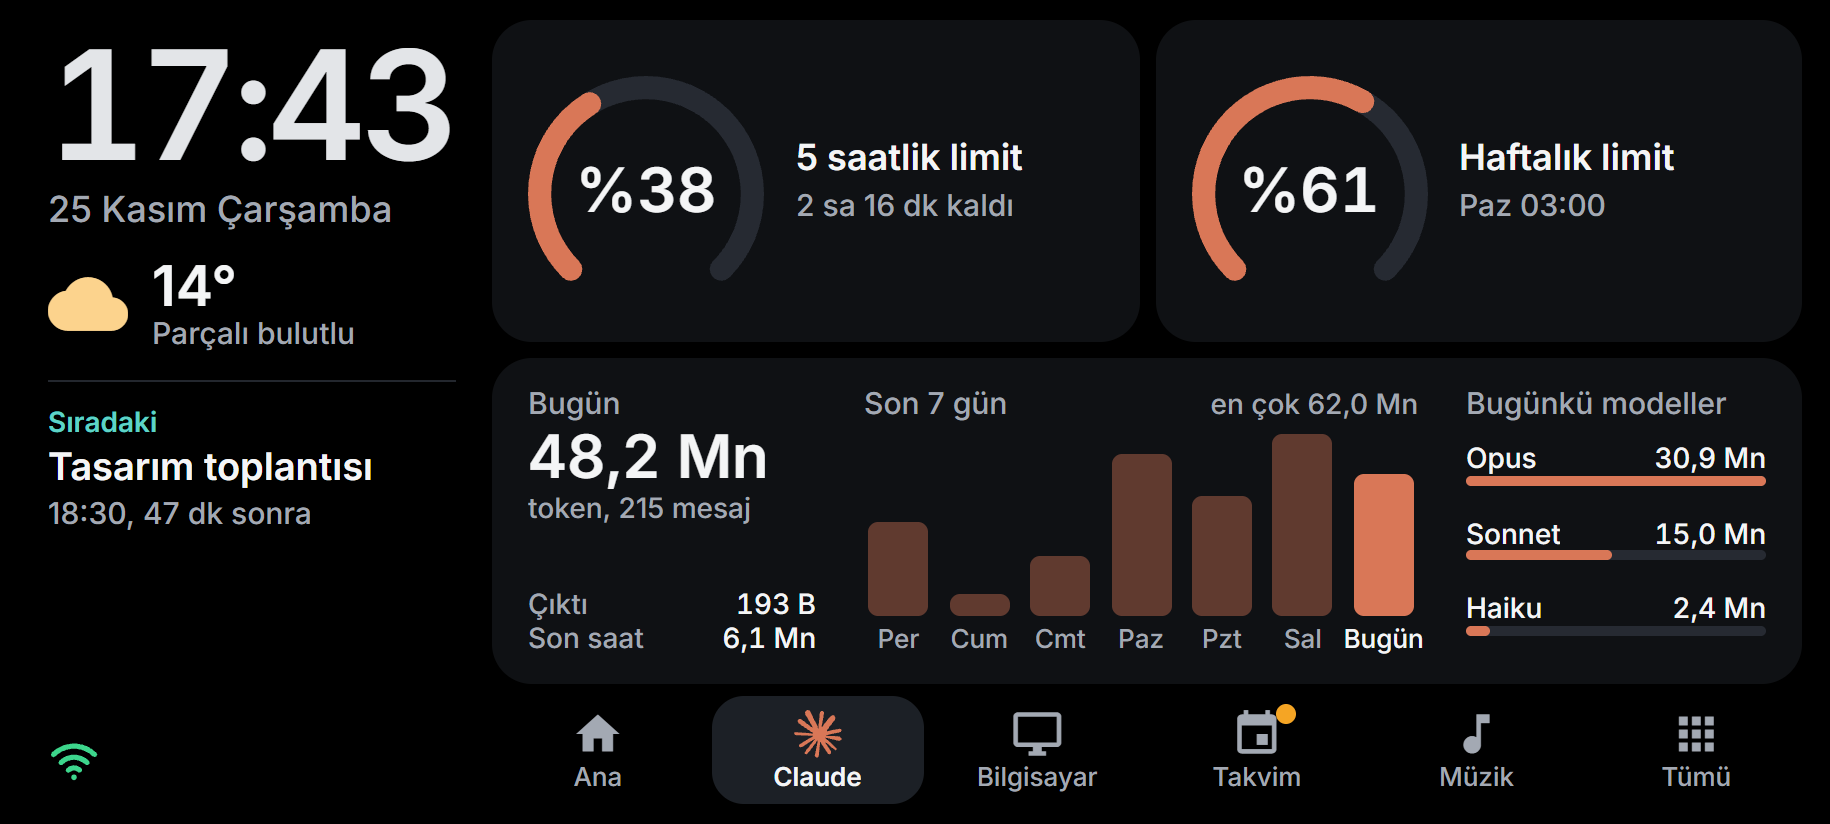
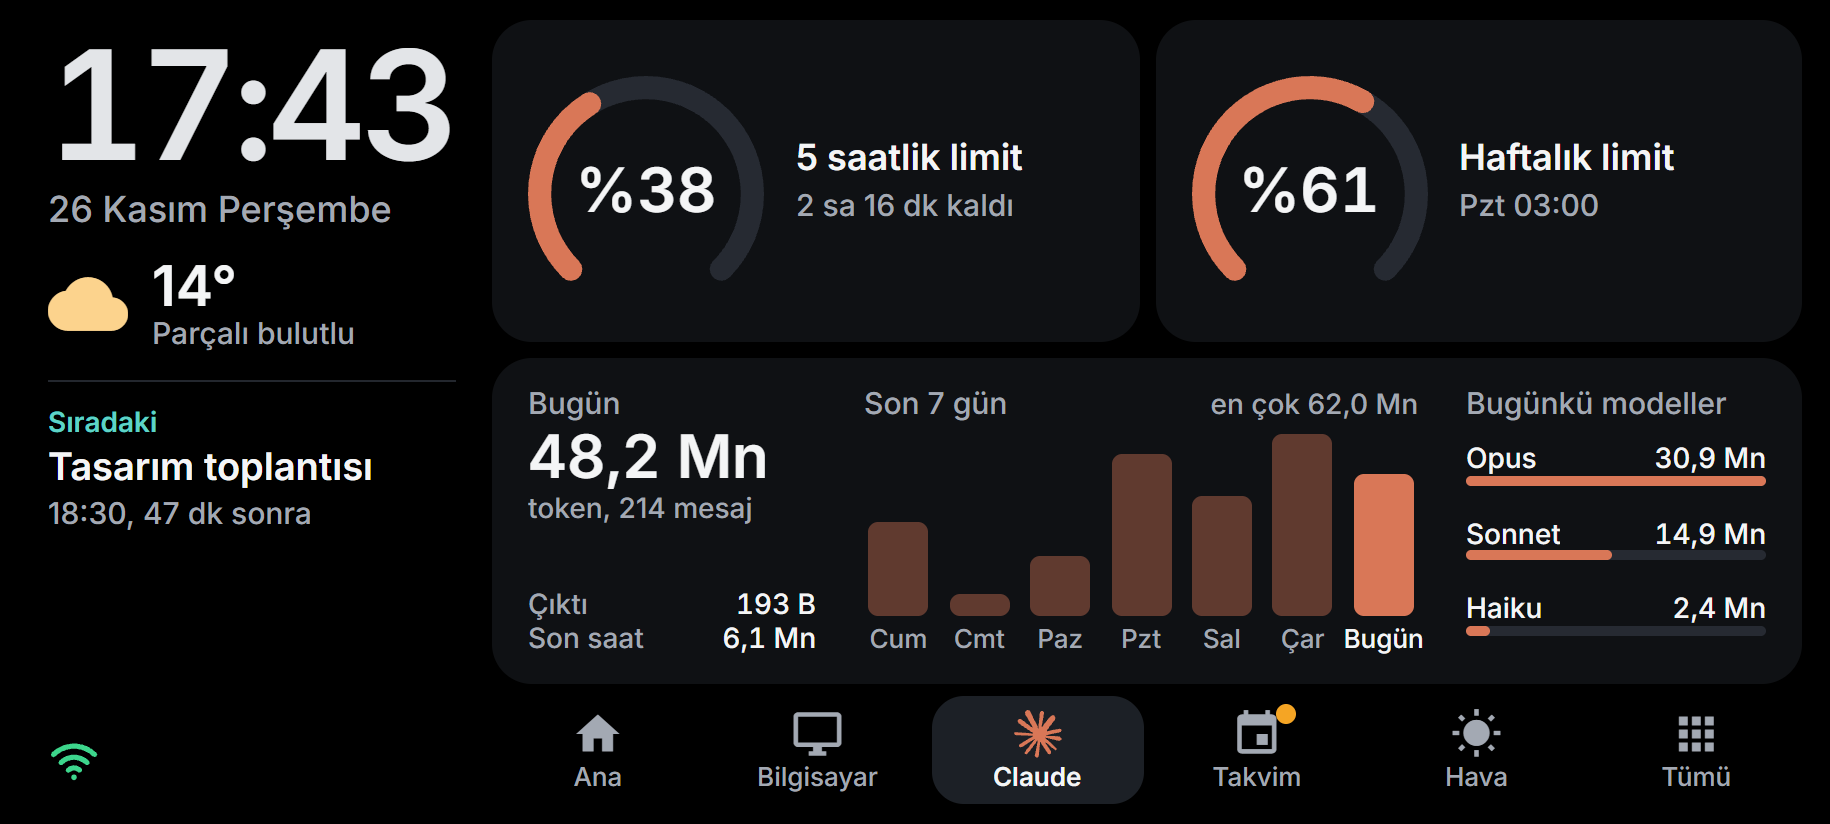
docs: pictures with the layout that is in use

diff --git a/CLAUDE.md b/CLAUDE.md
@@ -91,6 +91,11 @@ The GIF and a fuller quick start (asked for by the user), branch `docs-gif` (fro
 
 - [x] `docs/images/demo.gif`, `demo.tr.gif`: the real app with made-up data
 - [x] Quick start tried in an empty folder: clone, `uv sync`, the launcher's first run
+- [x] Looked at on GitHub, pull request into `main` (by the user)
+
+The pictures with the user's own layout (asked for by the user), branch `docs-images` (from `main`):
+
+- [x] `docs/images/*.png` taken again, the data still made up
 - [ ] Looked at on GitHub, pull request into `main` (by the user)
 
 Phases 0 to 2 are done and verified on the phone by the user (branches `phase-0` to `phase-2`).

diff --git a/README.md b/README.md
@@ -44,7 +44,7 @@ small bridge next to it behaves like the board, and the phone shows the result i
 
 ## Pages
 
-<img src="docs/images/hero.png" alt="The Home page on a phone, sideways and upright: time, weather, next event, Claude limits, PC load, GitHub chart and the song that is playing">
+<img src="docs/images/hero.png" alt="The Home page on a phone, sideways and upright: time, weather, next event, Claude limits, the song that is playing and PC load">
 
 <table>
   <tr>

diff --git a/README.tr.md b/README.tr.md
@@ -43,7 +43,7 @@ Yanındaki küçük bir köprü (bridge) kart gibi davranır, telefon da sonucu 
 
 ## Sayfalar
 
-<img src="docs/images/hero.png" alt="Telefonda yatay ve dikey Ana sayfa: saat, hava, sıradaki etkinlik, Claude limitleri, PC yükü, GitHub grafiği ve çalan şarkı">
+<img src="docs/images/hero.png" alt="Telefonda yatay ve dikey Ana sayfa: saat, hava, sıradaki etkinlik, Claude limitleri, çalan şarkı ve PC yükü">
 
 <table>
   <tr>
